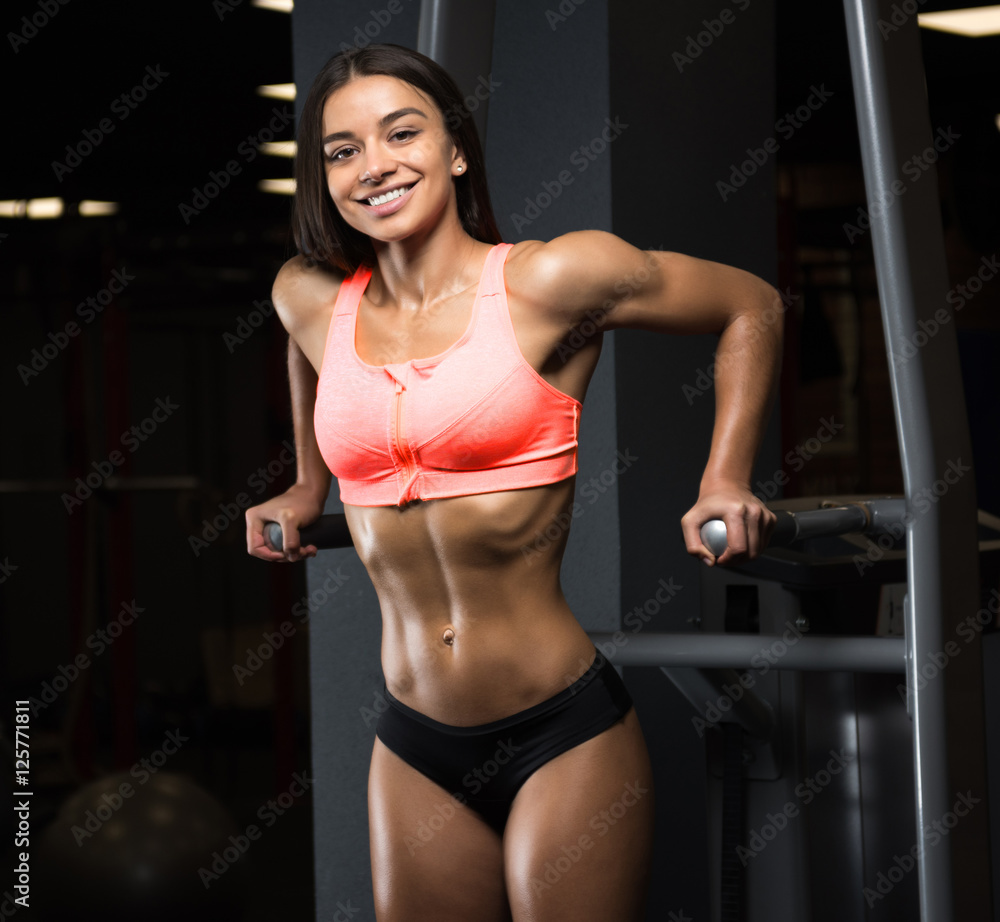
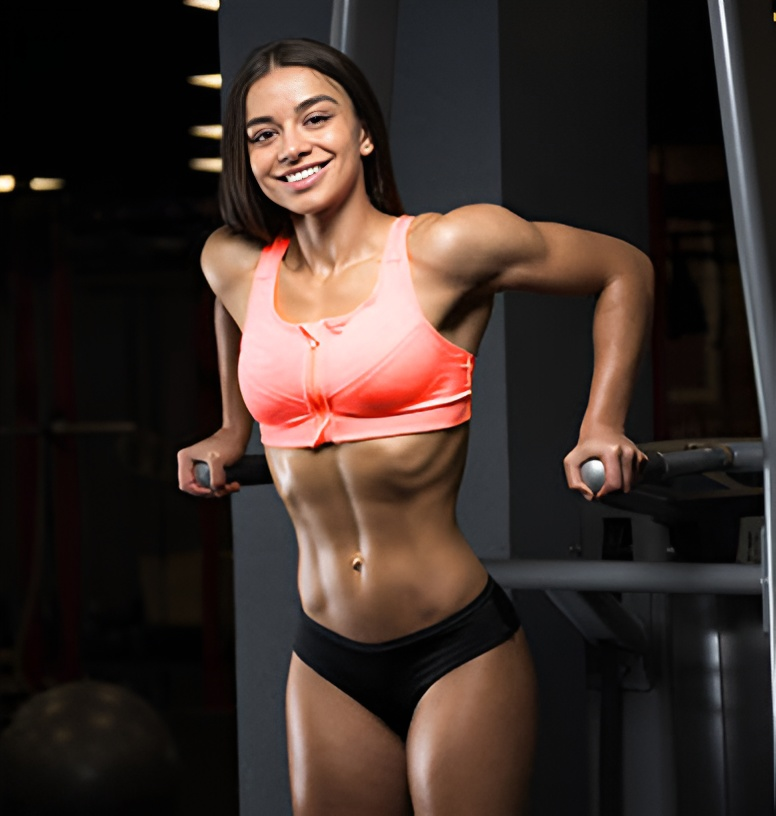
style(public): replace images

diff --git a/components/main/components/courses.tsx b/components/main/components/courses.tsx
@@ -45,7 +45,7 @@ export default function Courses({ isMobile }: IProps) {
 			/>
 			<SectionContent className={`w-full ${style}`}>
 				{cards.map((card) => {
-					const imageId = card.price.includes("9") ? "4" : "1";
+					const imageId = card.price.includes("9") ? "3" : "1";
 
 					return (
 						<OfferCard
@@ -54,7 +54,7 @@ export default function Courses({ isMobile }: IProps) {
 							imageAlt="Алина Самойлова"
 							isMobile={isMobile}
 							data={card}
-							premium={imageId === "4"}
+							premium={imageId === "3"}
 						/>
 					);
 				})}

diff --git a/components/main/components/offers.tsx b/components/main/components/offers.tsx
@@ -62,14 +62,14 @@ export default function Offers({ isMobile }: IProps) {
 					isMobile={isMobile}
 				/>
 				<OfferCard
-					imageSrc="/3.jpg"
+					imageSrc="/1.jpg"
 					imageAlt="Алина Самойлова"
 					data={card2}
 					premium
 					isMobile={isMobile}
 				/>
 				<OfferCard
-					imageSrc="/last.jpg"
+					imageSrc="/2.jpg"
 					imageAlt="Алина Самойлова"
 					data={card3}
 					isMobile={isMobile}

diff --git a/components/main/widgets/carousel/carousel.tsx b/components/main/widgets/carousel/carousel.tsx
@@ -73,8 +73,9 @@ export default function Carousel({ isMobile, slides }: IProps) {
 						style={{ width: `${!isMobile && "calc(25% - 18px)"}` }}
 					>
 						<SlideCard
-							imageSrc={`/frame${index + 1}.jpg`}
+							imageSrc={`/frame-${index + 1}.jpg`}
 							imageAlt="Дэушка"
+							isMobile={isMobile}
 							data={slide}
 						/>
 					</SwiperSlide>

diff --git a/components/widgets/solution-card.tsx b/components/widgets/solution-card.tsx
@@ -59,7 +59,7 @@ export default function SolutionCard({
 
 			{hasBackground && (
 				<Image
-					src={`/${card.id}.jpg`}
+					src={`/-${card.id}.jpg`}
 					alt="Girl"
 					fill
 					className={`absolute z-999 ${imageStyle} rounded-[16px] opacity-20 scale-105 transition duration-[0.7s] grayscale group-hover:opacity-20 group-hover:scale-100`}
